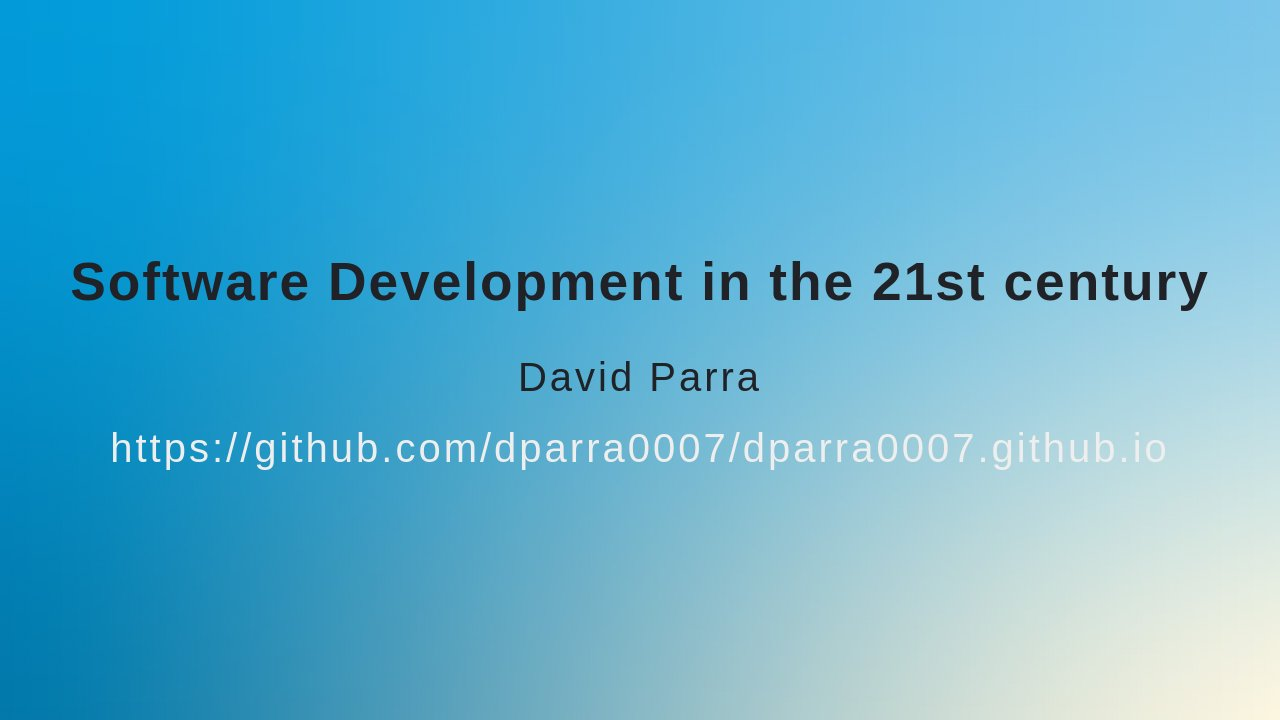
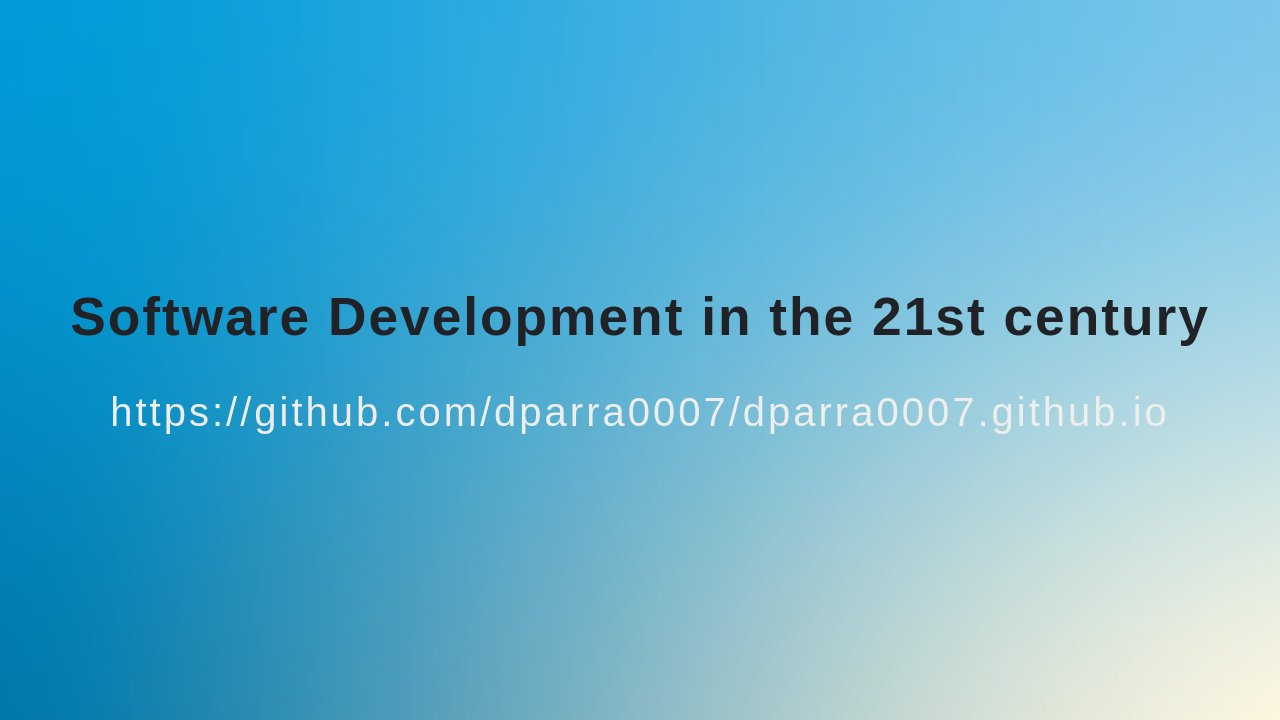
Deploying to gh-pages from  @ 4e09b200f2be8fd19e13306ad2de4b9ba7a25d71 🚀

Changed region(s): [[0.0312, 0.3667, 0.9375, 0.6722]]

diff --git a/index.html b/index.html
@@ -7,9 +7,8 @@
  *
  * @auto-scaling fittingHeader,math
  * @size 4:3 960px 720px
[2 lines of base64/hex data omitted]
 <h1><svg data-marp-fitting="svg"><foreignObject><span data-marp-fitting-svg-content> Software Development in the 21st century</span></foreignObject></svg></h1>
-<p>David Parra</p>
 <p><a href="https://github.com/dparra0007/dparra0007.github.io">https://github.com/dparra0007/dparra0007.github.io</a></p>
 </section>
 </foreignObject><foreignObject width="1280" height="720" data-marpit-advanced-background="pseudo"><section style="" data-marpit-advanced-background="pseudo"></section></foreignObject></svg><svg data-marpit-svg="" viewBox="0 0 1280 720"><foreignObject width="1280" height="720"><section id="2" data-paginate="true" data-theme="uncover" data-background-color="#123" data-color="#fff" data-marpit-pagination="2" data-marpit-pagination-total="25" style="--paginate:true;--theme:uncover;--background-color:#123;--color:#fff;color:#fff;background-color:#123;background-image:none;">
